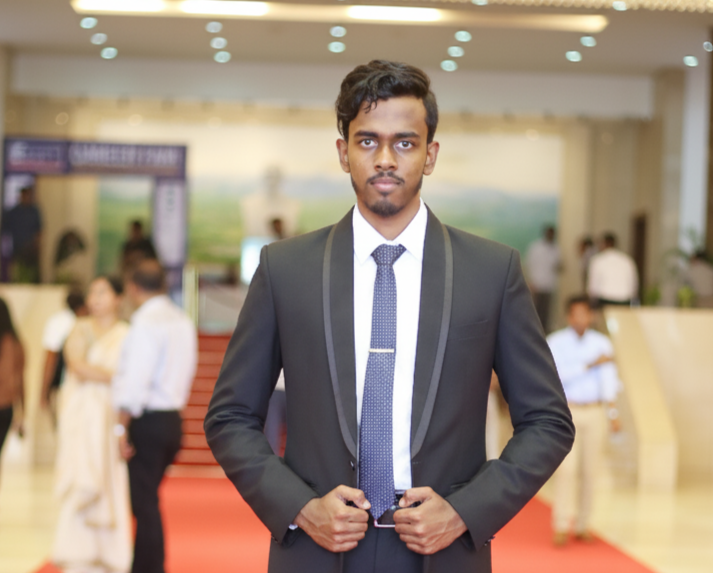
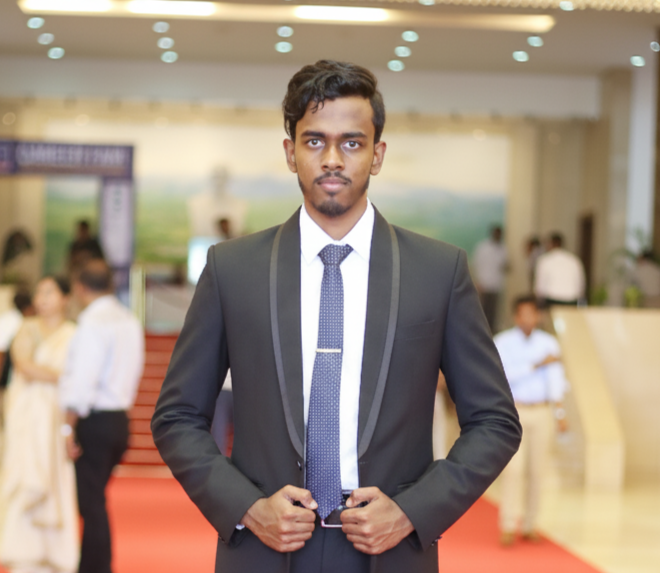
color changes and media chages

diff --git a/landing_page/Landing_Page.css b/landing_page/Landing_Page.css
@@ -96,6 +96,7 @@ body {
     transform: translateY(-3px);
     box-shadow: 0 10px 20px rgba(0, 0, 0, 0.2);
 }
+
 .hero-image {
     text-align: center;
 }
@@ -192,7 +193,7 @@ body {
     font-size: 2.5rem;
     font-weight: 700;
     text-align: center;
-    color: var(--color-secondary );
+    color: var(--color-secondary);
     margin-bottom: 4rem;
 }
 
@@ -584,7 +585,13 @@ body {
     width: 150px;
     height: 150px;
     border-radius: 50%;
-    margin: 0 auto 2rem;
+    margin: 0 auto 1.5rem;
+    transition: transform 0.3s, border-color 0.3s;
+}
+
+.team-member:hover .team-photo {
+    transform: scale(1.1);
+    border-color: var(--color-light);
 }
 
 .team-photo img {
@@ -592,7 +599,7 @@ body {
     height: 100%;
     object-fit: cover;
     border-radius: 100%;
-    border: 4px solid var(--color-accent1); 
+    border: 5px solid #000000;
 }
 
 .team-member h4 {
@@ -687,6 +694,10 @@ body {
         grid-template-columns: 1fr;
     }
 
+    .hero-section {
+        margin-bottom: -6rem;
+    }
+
     .team-grid {
         grid-template-columns: repeat(2, 1fr);
     }
@@ -704,6 +715,10 @@ body {
 
     .hero-image {
         margin-top: 3rem;
+    }
+
+    .hero-section {
+        margin-bottom: -6rem;
     }
 
     .team-grid {
@@ -735,20 +750,6 @@ body {
     color: var(--color-accent1);
 }
 
-.team-photo {
-    width: 150px;
-    height: 150px;
-    border-radius: 50%;
-    background-color: var(--color-accent1);
-    margin: 0 auto 1.5rem;
-    border: 4px solid var(--color-dark);
-    transition: transform 0.3s, border-color 0.3s;
-}
-
-.team-member:hover .team-photo {
-    transform: scale(1.1);
-    border-color: var(--color-accent1);
-}
 
 .navbar-brand {
     display: flex;
@@ -778,7 +779,26 @@ body {
     overflow: hidden;
 }
 
+.about-image-2 {
+    background-color: var(--color-accent2);
+    height: 350px;
+    border-radius: 20px;
+    display: flex;
+    align-items: center;
+    justify-content: center;
+    color: var(--color-dark);
+    font-size: 1.2rem;
+    font-weight: 600;
+    transition: transform 0.3s, box-shadow 0.3s;
+    overflow: hidden;
+}
+
 .about-image:hover {
+    transform: scale(1.02);
+    box-shadow: 0 5px 20px rgba(0, 0, 0, 0.15);
+}
+
+.about-image-2:hover {
     transform: scale(1.02);
     box-shadow: 0 5px 20px rgba(0, 0, 0, 0.15);
 }
@@ -791,6 +811,43 @@ body {
     transition: transform 0.3s;
 }
 
+.about-image-2 img {
+    width: 80%;
+    height: 100%;
+    object-fit: fill;
+    border-radius: 20px;
+    transition: transform 0.3s;
+}
+
 .about-image:hover img {
     transform: scale(1.05);
+}
+
+.about-image-2:hover img {
+    transform: scale(1.05);
+}
+
+@media (max-width: 768px) {
+
+    .about-image{
+        height: 200px;
+        margin-bottom: 2rem;
+    }
+
+    .about-image img {
+        width: 90%;
+        height: 80%;
+        object-fit: fill;
+        border-radius: 20px;
+        transition: transform 0.3s;
+    }
+
+    .about-image-2 img {
+        width: 90%;
+        height: 70%;
+        object-fit: fill;
+        border-radius: 20px;
+        transition: transform 0.3s;
+    }
+
 }

diff --git a/landing_page/index.html b/landing_page/index.html
@@ -133,8 +133,8 @@
             <div class="about-item">
                 <div class="row align-items-center">
                     <div class="col-lg-6 order-lg-2">
-                        <div class="about-image">
-                            <img src="./pics/pic2.jpg" alt="How It Began">
+                        <div class="about-image-2">
+                            <img src="./pics/pic2.png" alt="How It Began">
                         </div>
                     </div>
                     <div class="col-lg-6 order-lg-1">
